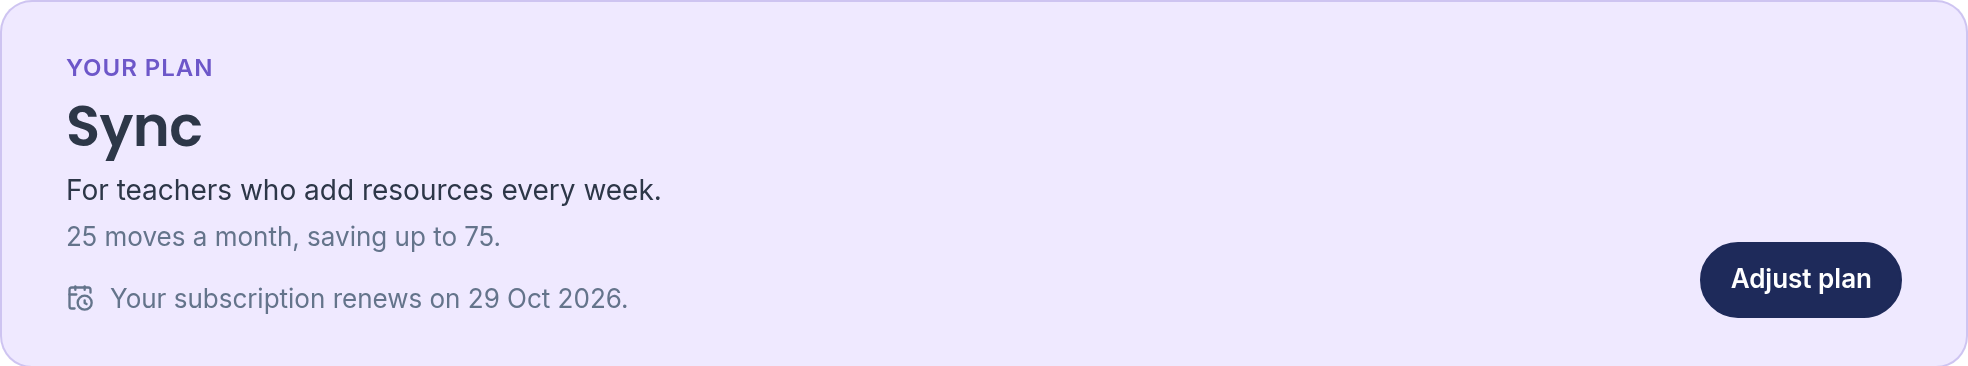
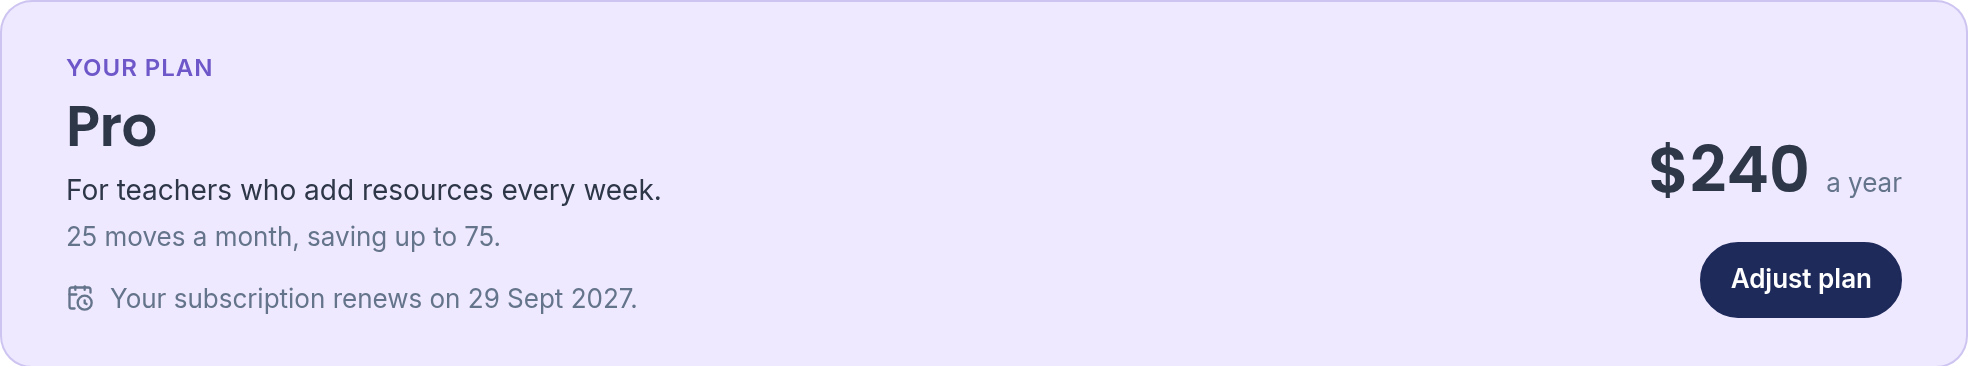
Guides: plans pictures show Pro; Notifications heads with an inbox so a phone carries one bell

Changed region(s): [[0.8369, 0.3907, 0.9609, 0.541], [0.031, 0.3005, 0.124, 0.4208], [0.248, 0.7814, 0.341, 0.8415]]

diff --git a/web/src/lib/icons.ts b/web/src/lib/icons.ts
@@ -42,6 +42,7 @@ import Filter from '@lucide/svelte/icons/filter';
 import Gift from '@lucide/svelte/icons/gift';
 import HeartPulse from '@lucide/svelte/icons/heart-pulse';
 import Image from '@lucide/svelte/icons/image';
+import Inbox from '@lucide/svelte/icons/inbox';
 import Info from '@lucide/svelte/icons/info';
 import Italic from '@lucide/svelte/icons/italic';
 import Laptop from '@lucide/svelte/icons/laptop';
@@ -114,6 +115,7 @@ export const ICONS = {
 	gift: Gift,
 	'heart-pulse': HeartPulse,
 	image: Image,
+	inbox: Inbox,
 	info: Info,
 	italic: Italic,
 	laptop: Laptop,

diff --git a/web/src/lib/nav.ts b/web/src/lib/nav.ts
@@ -168,7 +168,7 @@ export const SECTIONS: readonly NavSection[] = [
 				icon: 'sliders-horizontal'
 			},
 			{ href: '/settings/billing', label: 'Billing', icon: 'credit-card' },
-			{ href: '/notifications', label: 'Notifications', icon: 'bell' },
+			{ href: '/notifications', label: 'Notifications', icon: 'inbox' },
 			{ href: '/status', label: 'Marketplace status', icon: 'activity' },
 			{ href: '/guides', label: 'Help and guides', icon: 'book-open' }
 		]

diff --git a/web/src/lib/pages/notifications/NotificationsPage.svelte b/web/src/lib/pages/notifications/NotificationsPage.svelte
@@ -88,7 +88,7 @@
 
 <div class="page ntf-page">
 	<PageHead
-		icon="bell"
+		icon="inbox"
 		title="Notifications"
 		description="Everything Teachouse has finished for you, and anything you missed, newest first."
 		guide="updates"

diff --git a/docs/releases/0.17.0.md b/docs/releases/0.17.0.md
@@ -49,7 +49,7 @@ The help guides now publish themselves on every deploy. After the migrations, th
 - **Coloured toasts.** Every pop-up is coloured by what it says: green for a save, blue for information, amber when something was refused or needs a look, red for an error. They stack at the top right (across the top on a phone), at most three at once, and each goes after five seconds. Hovering or focusing one holds them; the close button, Escape and reduced motion all work as before.
 - **Nothing missed.** A pop-up that went while you were looking elsewhere is kept in your notifications. One you closed or clicked is not.
 - **The bell.** A bell sits between New resource and your account picture, the same size, with a count of what is unread. It opens the newest twenty with Mark read and Dismiss on each, Mark all read, and a link to the full page. On a phone it sits in the page header and opens as a sheet from the bottom.
-- **Notifications page.** Each row carries its colour; unread rows are bold. Mark read and Delete per row, Mark all read and Delete read for the lot. The page no longer marks everything read just by opening it.
+- **Notifications page.** Each row carries its colour; unread rows are bold. Mark read and Delete per row, Mark all read and Delete read for the lot. The page no longer marks everything read just by opening it. Its heading and its Account menu entry now show an inbox rather than a second bell, so a phone's header carries one bell.
 - **Finished runs** come in coloured by how they went: red if anything failed, amber if anything needs a look, green otherwise.
 
 Deploy: migration `0100_notification_notice` runs on start (adds notice columns to `notification`, and widens its row policy to the user). New routes: `POST /v1/notifications`, `POST /v1/notifications/{id}/read`, `POST /v1/notifications/read-all`, `POST /v1/notifications/dismiss-read`, `DELETE /v1/notifications/{id}`; `GET /v1/notifications` now answers `unread` and a `source`/`tone` on each row.

diff --git a/docs/guides/plans.md b/docs/guides/plans.md
@@ -17,10 +17,10 @@ Each plan also sets how many resources you can keep and how many watermarked pre
 
 ## See your plan
 
-Open **Account → Billing**. The card at the top shows **Your plan**, what it gives you, and the day your subscription renews. **Adjust plan** takes you down to the plans.
+Open **Account → Billing**. The card at the top shows **Your plan**, what it gives you, what you pay, and the day your subscription renews. **Adjust plan** takes you down to the plans.
 
-<!-- shot: /settings/billing, the "Your plan" card for Pro with the renewal date and Adjust plan -->
-![Your plan, with the day it renews](/v1/guides/images/925667ef6d9ddfd11627630a495305b768426fa419cad7d1210eae65cab2133d)
+<!-- shot: /settings/billing, the "Your plan" card for Pro with its price, the renewal date and Adjust plan -->
+![Your plan, with the day it renews](/v1/guides/images/bd0296469d29b48d318c562535a37e97be04aae565a56df6dda2f41705d1d5a9)
 
 ## The plans
 
@@ -48,7 +48,7 @@ Every plan can import from wherever you sell, find and merge duplicates, use ric
 The switch above the plans shows **Monthly** or **Yearly** prices. The yearly price is shown as what it works out at each month, with what you save. The plan you are on is marked **Your plan**.
 
 <!-- shot: /settings/billing, the Pro plan card marked "Your plan" with its yearly price and what it includes -->
-![The plan you are on, marked Your plan](/v1/guides/images/f9b5ad454495cdcd1eb4cc36524f493a894cf27d168fb1bc45e82bab65a2e510)
+![The plan you are on, marked Your plan](/v1/guides/images/dbaec1093ae7082ee575ac7972e3d9cb974149b7cd582c85e9d13779c20acde8)
 
 ## Move Packs (one-off) — on any plan
 
